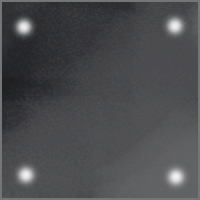
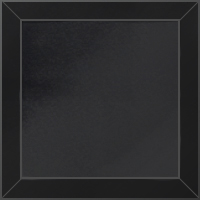
fixed scaling issue (still not optimal but pretty good)

diff --git a/src/game/Bomb.java b/src/game/Bomb.java
@@ -2,6 +2,7 @@ package game;
 
 import java.awt.event.ActionEvent;
 import java.awt.event.ActionListener;
+import java.util.LinkedList;
 
 import javax.swing.Timer;
 
@@ -20,14 +21,16 @@ public class Bomb extends Drawable implements ActionListener {
 	private int delay;
 	private Timer timer;
 	private long startTime;
+	private LinkedList<Drawable> drawables;
 	
-	public Bomb(int x, int y, Map map){
+	public Bomb(int x, int y, Map map, LinkedList<Drawable> drawables){
         super(x, y);
 		this.radius = 1;
 		this.strength = 1;
 		this.delay = 300; //300 milliseconds is too short
 		this.startTime = -1;
 		this.map = map;
+		this.drawables = drawables;
 	}
 	
 	public void setXY(int x, int y, Map map){
@@ -37,11 +40,26 @@ public class Bomb extends Drawable implements ActionListener {
 	}
 	
 	public void explode(){
-		boolean proceedLeft = true;
-		boolean proceedRight = true;
-		boolean proceedUp = true;
-		boolean proceedDown = true;
-		this.map.destroy(this.x,this.y,this.strength); 
+		map.destroy(x, y, strength);
+		int dx[] = {1, 0, -1, 0};
+		int dy[] = {0, 1, 0, -1};
+        drawables.add(new Explosion(x, y));
+		for (int j=0; j<4; j++) {
+		    int x2 = x;
+		    int y2 = y;
+		    for (int i=1; i<=radius; i++) {
+                x2 += dx[j];
+                y2 += dy[j];
+                map.destroy(x2, y2, strength);
+                if (map.isBlocked(x2, y2)) break;
+                drawables.add(new Explosion(x2, y2));
+		    }
+		}
+		/*
+        boolean proceedLeft = true;
+        boolean proceedRight = true;
+        boolean proceedUp = true;
+        boolean proceedDown = true;
 		for (int i=1; i<=this.radius; i++){
 			if (proceedRight){
 				this.map.destroy(this.x + i,this.y, this.strength);
@@ -59,7 +77,7 @@ public class Bomb extends Drawable implements ActionListener {
 				this.map.destroy(this.x,this.y - i,this.strength);
 				proceedDown = !this.map.isBlocked(this.x,this.y-i);
 			}
-		}
+		}*/
 	}
 	
 	public void startTimer(){

diff --git a/src/game/Player.java b/src/game/Player.java
@@ -1,6 +1,5 @@
 package game;
 
-import java.awt.Image;
 import java.awt.event.ActionEvent;
 import java.awt.event.ActionListener;
 import java.util.LinkedList;
@@ -28,7 +27,7 @@ public class Player extends Drawable implements ActionListener {
 	public Player(int x, int y, int speed, Map map, LinkedList<Drawable> drawables){
 		super(x, y);
 		this.map = map;
-		this.bomb = new Bomb(-1, -1, map);
+		this.bomb = new Bomb(-1, -1, map, drawables);
 		this.direction = 0;
 		this.speed = speed;
 		this.timer = new Timer(this.speed,this);
@@ -136,7 +135,7 @@ public class Player extends Drawable implements ActionListener {
 	}
 	
 	public void putBomb(){
-	    Bomb bomb = new Bomb(x, y, map);
+	    Bomb bomb = new Bomb(x, y, map, drawables);
 	    bomb.startTimer();
 	    synchronized (drawables) {
 	        drawables.add(bomb);

diff --git a/src/draw/Drawable.java b/src/draw/Drawable.java
@@ -12,12 +12,12 @@ public abstract class Drawable {
     protected int     y       = 0;
     protected boolean visible = true;
 
-    private Image     img     = null;
+    protected Image   image   = null;
 
     public Drawable(int x, int y) {
         this.x = x;
         this.y = y;
-        this.img = ImageLoader.getImage(this);
+        this.image = ImageLoader.getImage(this);
     }
 
     public void setXY(int x, int y) {
@@ -34,7 +34,7 @@ public abstract class Drawable {
     }
 
     public Image getImage() {
-        return img;
+        return image;
     }
 
     public boolean isExpired() {

diff --git a/src/images/ImageLoader.java b/src/images/ImageLoader.java
@@ -27,6 +27,10 @@ public class ImageLoader {
                 System.err.println("failed to locate image: " + path);
             } else {
                 Image image = toolkit.createImage(url);
+                String ext = path.substring(path.lastIndexOf('.')+1, path.length());
+                if (!ext.equals("gif")) {
+                    image = image.getScaledInstance(64, 64, Image.SCALE_SMOOTH);
+                }
                 if (image == null) {
                     System.err.println("failed to create image: " + path);
                 } else {
